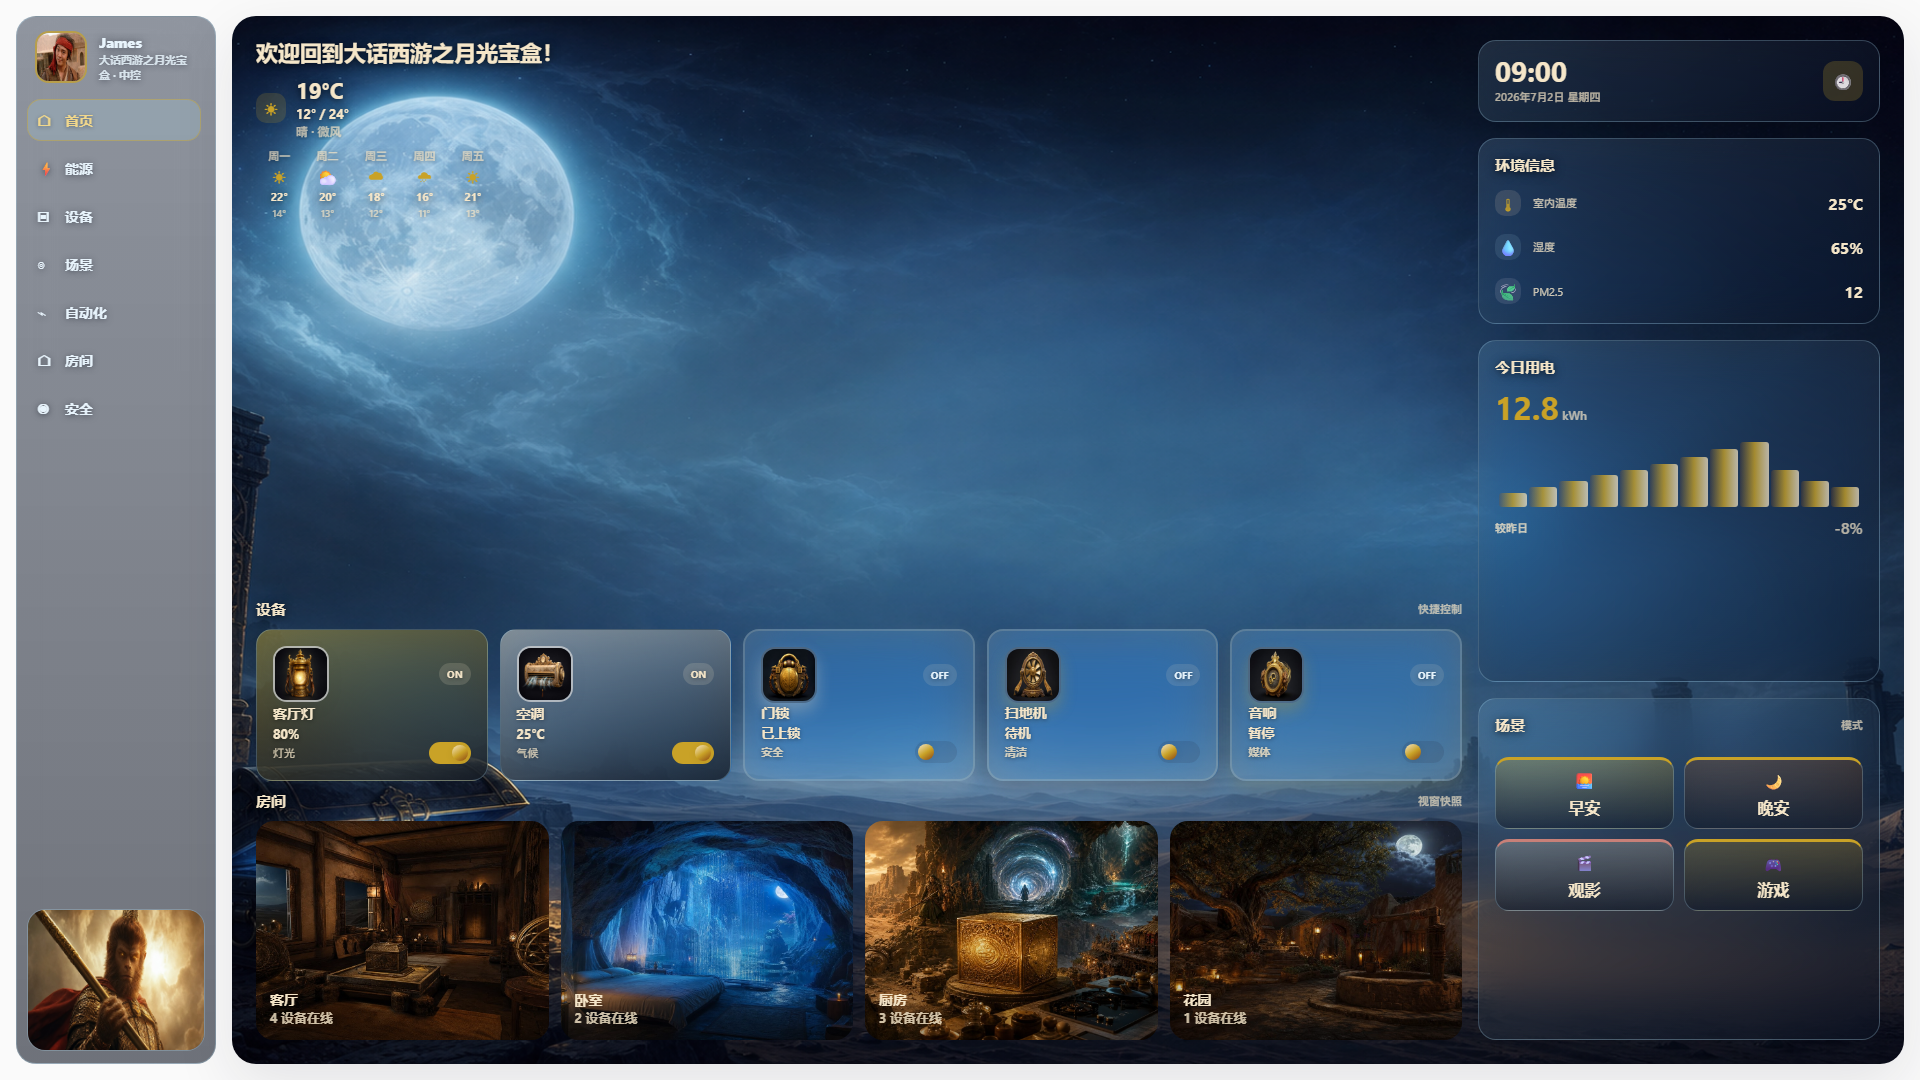
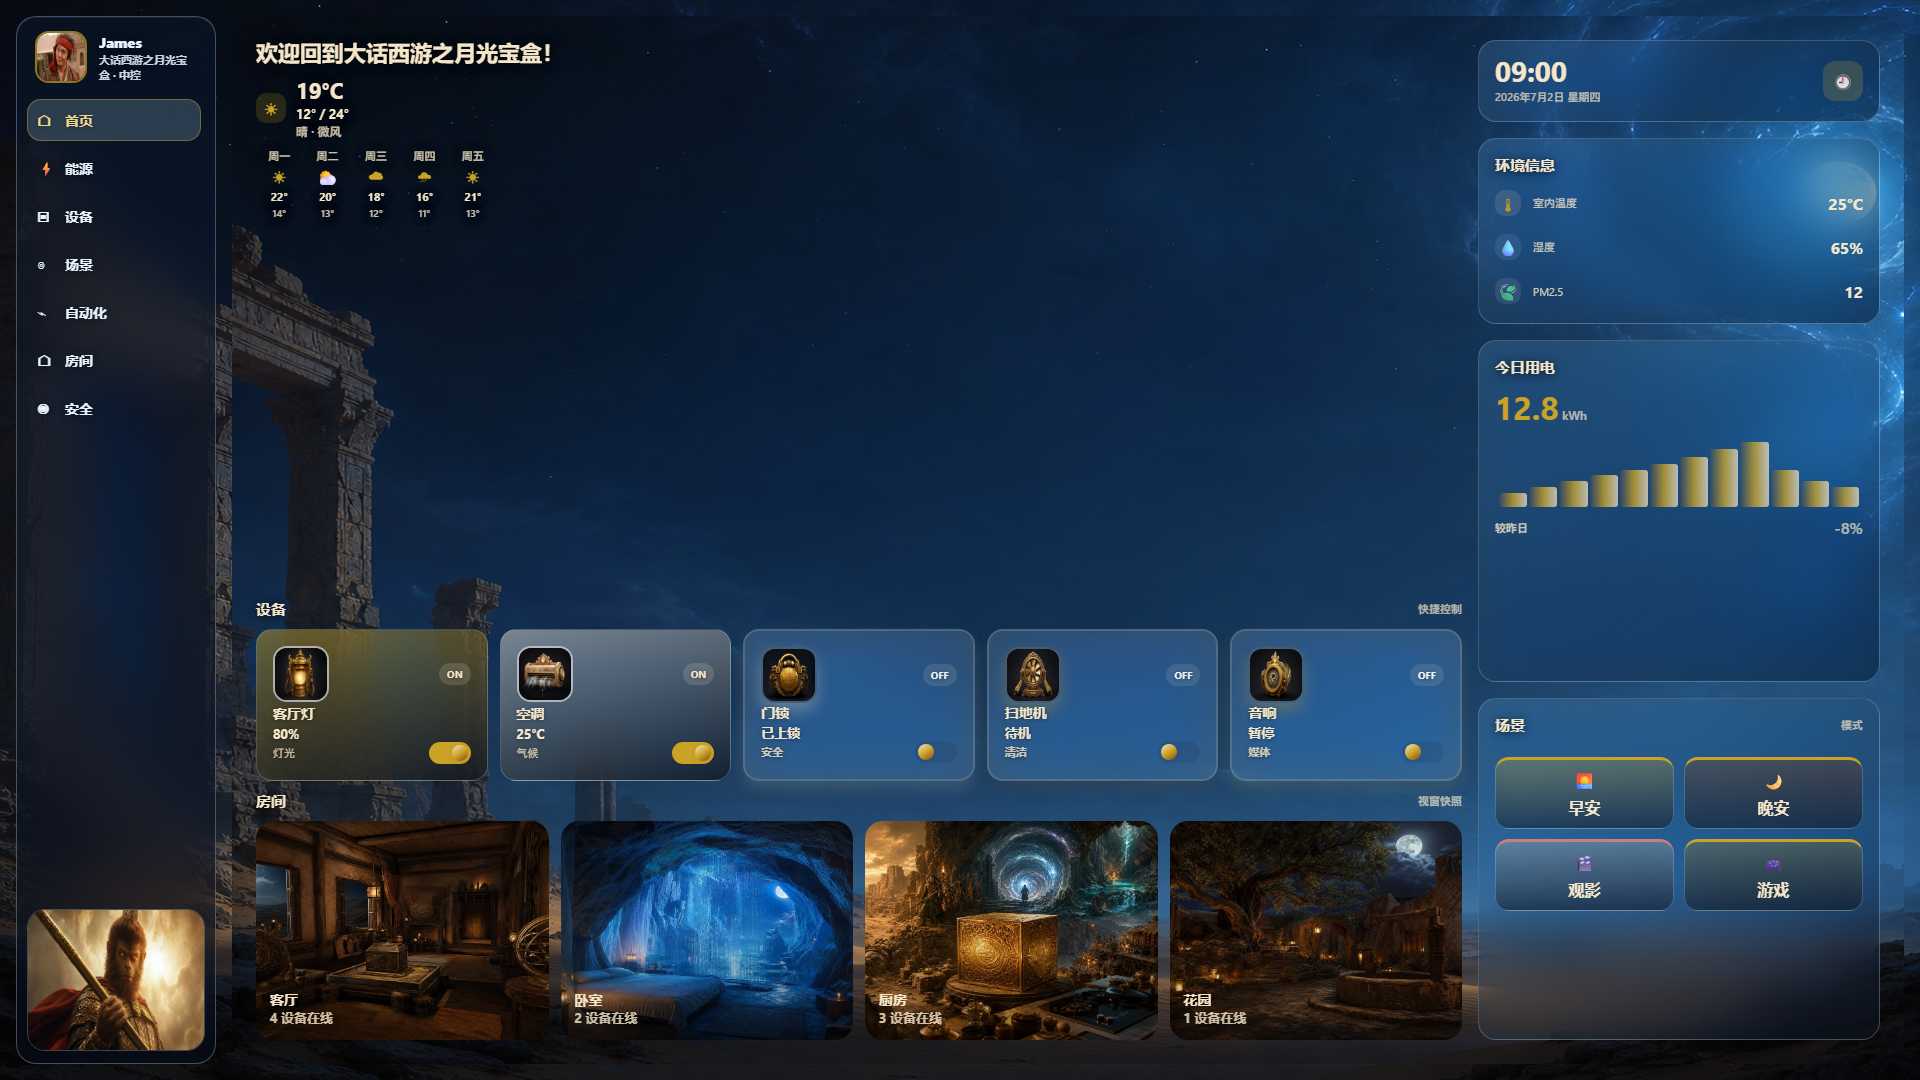
fix(skins): chinese-odyssey-pandora atmospheric background and frosted sidebar
Redraw 16:9 moonlight-box desert night homepage with UI-safe center space; translucent frosted sidebar for readability.

diff --git a/skins-pro/chinese-odyssey-pandora/theme.css b/skins-pro/chinese-odyssey-pandora/theme.css
@@ -42,7 +42,7 @@
   --sp-runtime-height:560px; --sp-runtime-min-height:560px;
   --sp-glass-bg:rgba(20, 24, 32, 0.72); --sp-panel-bg:rgba(20, 24, 32, 0.82);
   --sp-base-texture:url("./background.png"); --sp-stage-texture:url("./background.png");
-  --sp-app-overlay:linear-gradient(135deg,#fafafa,#fafafa);
+  --sp-app-overlay:none;
   --sp-stage-overlay:none;
   --sp-room-overlay:linear-gradient(180deg,transparent 40%,rgba(0,0,0,.38));
   --sp-bar-gradient:linear-gradient(90deg, rgba(139, 69, 19, 0.22), rgba(201, 162, 39, 0.92), rgba(245, 230, 201, 0.86));
@@ -814,6 +814,7 @@ button { font:inherit; }
 
 
 
+
 /* skins-pro weather layout patch */
 .welcome-group .welcome .quote { display:none; }
 
@@ -1134,19 +1135,22 @@ button { font:inherit; }
 
 
 /* skins-pro chinese-odyssey-pandora polish v1 */
-/* 月光宝盒：半透明磨砂侧栏 + 月光银蓝/暗金可读文字，贴合夜沙漠仙侠氛围 */
+/* 月光宝盒：半透明磨砂侧栏透出夜沙漠背景 + 月光银蓝/暗金可读字；欢迎区用深阴影 */
 :host {
-  --sp-sidebar-bg: rgba(12, 20, 36, 0.48) !important;
+  --sp-app-overlay: none !important;
+  --sp-sidebar-bg: rgba(10, 18, 34, 0.42) !important;
   --sp-sidebar-text: #E8F4FC !important;
-  --sp-sidebar-text-muted: rgba(232, 244, 252, 0.88) !important;
-  --sp-sidebar-active-bg: rgba(168, 212, 232, 0.22) !important;
+  --sp-sidebar-text-muted: rgba(232, 244, 252, 0.90) !important;
+  --sp-sidebar-active-bg: rgba(168, 212, 232, 0.24) !important;
   --sp-sidebar-active-text: #F0D78C !important;
-  --sp-glass-bg: rgba(12, 20, 36, 0.52) !important;
-  --sp-panel-bg: rgba(12, 20, 36, 0.58) !important;
+  --sp-glass-bg: rgba(12, 20, 36, 0.48) !important;
+  --sp-panel-bg: rgba(12, 20, 36, 0.52) !important;
   --sp-text-primary: #E8F4FC !important;
   --sp-text-main: #E8F4FC !important;
-  --sp-text-muted: rgba(232, 244, 252, 0.72) !important;
-  --sp-text-muted-bright: rgba(232, 244, 252, 0.88) !important;
+  --sp-text-muted: rgba(232, 244, 252, 0.78) !important;
+  --sp-text-muted-bright: rgba(232, 244, 252, 0.90) !important;
+  --sp-text-stage: #F5E6C9 !important;
+  --sp-text-stage-muted: rgba(245, 230, 201, 0.82) !important;
   --sp-text-alt: #C9A227 !important;
   --sp-accent: #C9A227 !important;
   --sp-accent-alpha: rgba(201, 162, 39, 0.18) !important;
@@ -1159,12 +1163,39 @@ button { font:inherit; }
   --sp-shadow-xl: none !important;
   --sp-shadow-md: none !important;
 }
-.sidebar {
-  background: linear-gradient(180deg, rgba(18, 30, 52, 0.46), rgba(10, 16, 30, 0.58)) !important;
-  border: 1px solid rgba(168, 212, 232, 0.32) !important;
+.mc-app {
+  background-color: transparent !important;
+  background-image: var(--sp-app-overlay), var(--sp-base-texture) !important;
+  background-size: cover, cover !important;
+  background-position: center, center !important;
+}
+.stage {
+  background-color: transparent !important;
   box-shadow: none !important;
-  backdrop-filter: blur(28px) saturate(145%) !important;
-  -webkit-backdrop-filter: blur(28px) saturate(145%) !important;
+}
+.sidebar {
+  background: linear-gradient(180deg, rgba(16, 28, 48, 0.40), rgba(8, 14, 28, 0.52)) !important;
+  border: 1px solid rgba(168, 212, 232, 0.34) !important;
+  box-shadow: inset 0 1px 0 rgba(168, 212, 232, 0.10) !important;
+  backdrop-filter: blur(28px) saturate(150%) !important;
+  -webkit-backdrop-filter: blur(28px) saturate(150%) !important;
+}
+.welcome h1,
+.welcome .quote,
+.weather-current-temp,
+.weather-current-hl,
+.weather-current-cond,
+.forecast-high,
+.forecast-low,
+.forecast-weekday {
+  color: var(--sp-text-stage) !important;
+  text-shadow: 0 1px 8px rgba(0, 0, 0, 0.55), 0 2px 14px rgba(0, 0, 0, 0.35) !important;
+}
+.welcome .quote,
+.weather-current-cond,
+.forecast-weekday,
+.forecast-low {
+  color: var(--sp-text-stage-muted) !important;
 }
 .profile .meta h3,
 .sidebar .profile h3 {
